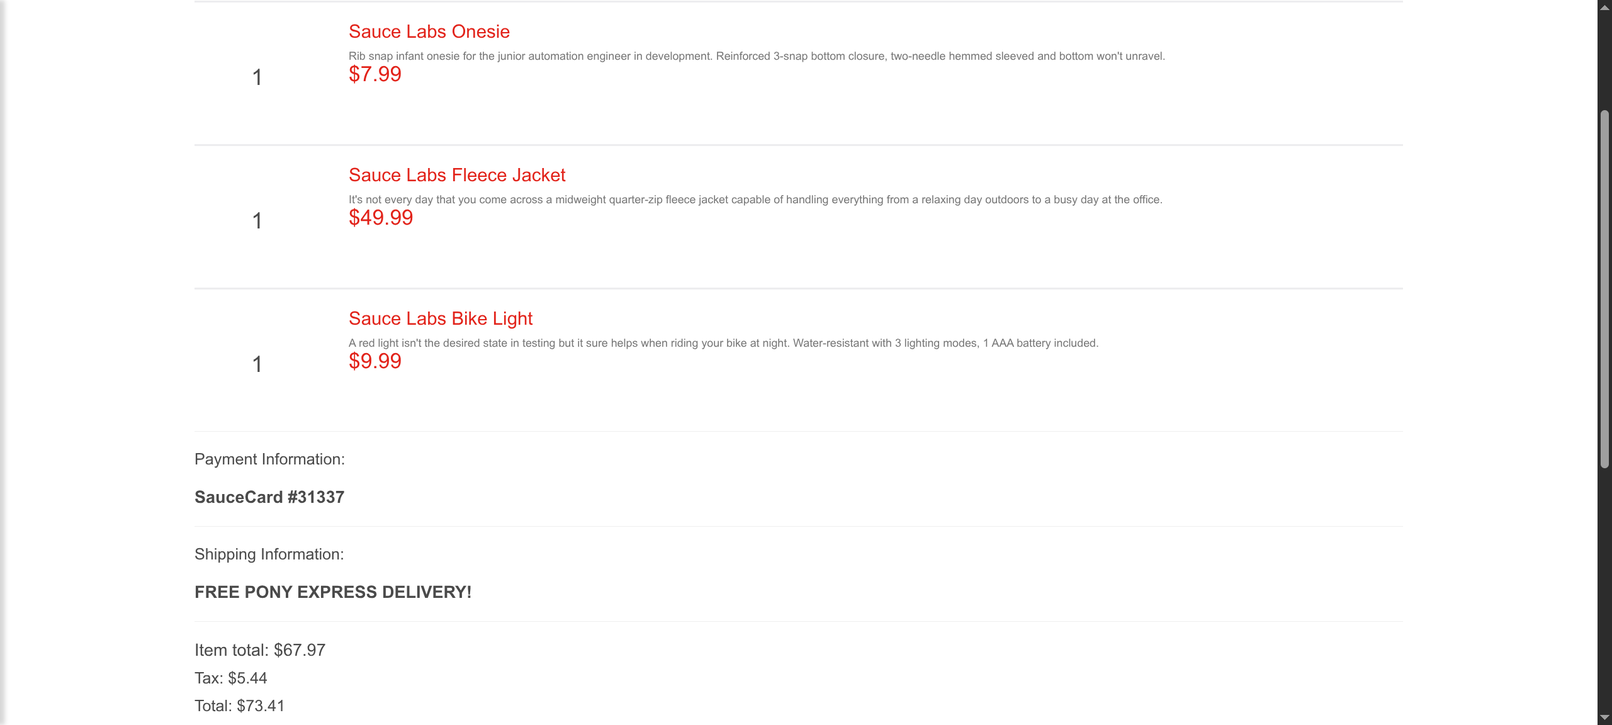
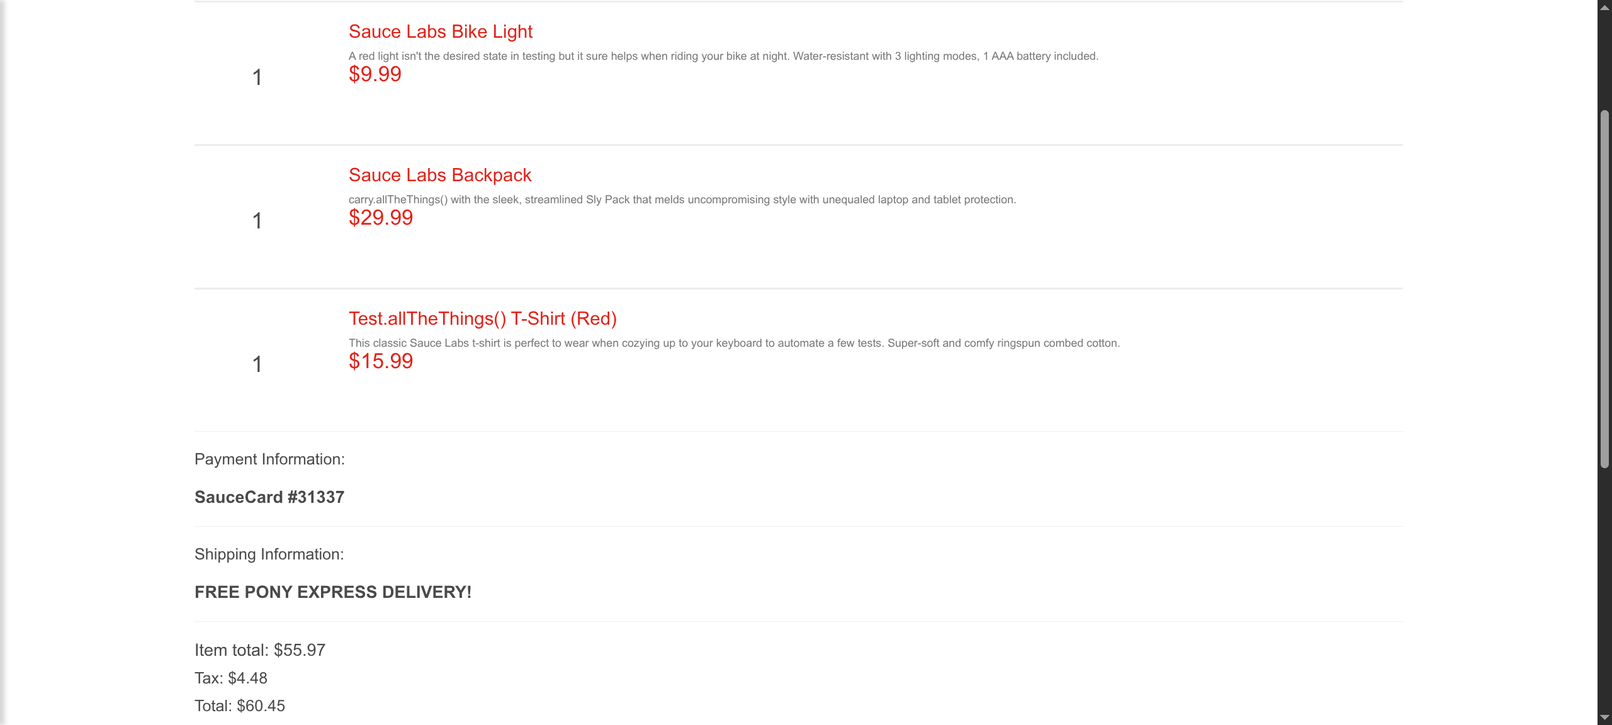
Adjustments to README

Changed region(s): [[0.2187, 0.4062, 0.6872, 0.5], [0.2187, 0.2188, 0.7185, 0.3125], [0.2187, 0.0312, 0.7185, 0.0938]]

diff --git a/log.html b/log.html
@@ -2074,25 +2074,25 @@ storage = function () {
 window.output = {};
 </script>
 <script type="text/javascript">
-window.output["suite"] = [1,2,3,0,[],[1,0,1681],[],[[4,0,5,[],[1,56,1624],[[0,6,0,0,0,0,0,0,[1,57,744],[[0,7,8,0,9,10,0,0,[1,57,606],[[57,2,11]]],[0,12,8,0,13,0,0,0,[1,663,12],[]],[0,14,8,0,15,16,0,0,[1,676,125],[[800,2,17]]]]],[0,18,19,0,0,0,0,0,[1,801,7],[[0,20,19,0,0,0,21,0,[1,801,6],[[0,22,8,0,23,24,25,0,[1,801,6],[[807,2,26]]],[0,27,28,0,29,25,30,0,[1,807,0],[[807,2,31],[807,2,32]]],[8,0,0,0,0,30,0,0,[1,807,0],[]],[808,2,33]]],[0,34,28,0,35,36,37,0,[1,808,0],[[808,2,38]]],[0,34,28,0,35,39,40,0,[1,808,0],[[808,2,41]]],[8,0,0,0,0,40,0,0,[1,808,0],[]]]],[0,42,0,0,0,0,0,0,[1,809,176],[[0,43,19,0,0,0,40,0,[1,809,5],[[0,20,19,0,0,0,21,0,[1,809,4],[[0,22,8,0,23,24,25,0,[1,809,3],[[812,2,26]]],[0,27,28,0,29,25,30,0,[1,812,0],[[812,2,31],[812,2,32]]],[8,0,0,0,0,30,0,0,[1,812,0],[]],[812,2,33]]],[0,34,28,0,35,36,37,0,[1,813,0],[[813,2,44]]],[0,34,28,0,35,39,40,0,[1,813,0],[[813,2,45]]],[8,0,0,0,0,40,0,0,[1,813,0],[]],[813,2,45]]],[0,46,28,0,47,48,0,0,[1,813,0],[[813,2,49]]],[0,22,8,0,23,50,51,0,[1,813,5],[[818,2,52]]],[3,53,0,0,0,0,0,0,[1,818,42],[[4,54,0,0,0,0,0,0,[1,818,19],[[0,55,8,0,56,57,0,0,[1,819,19],[[819,2,58]]]]],[4,59,0,0,0,0,0,0,[1,837,13],[[0,55,8,0,56,57,0,0,[1,837,13],[[838,2,60]]]]],[4,61,0,0,0,0,0,0,[1,850,10],[[0,55,8,0,56,57,0,0,[1,850,10],[[851,2,62]]]]]]],[0,63,8,0,64,65,0,0,[1,861,54],[[861,2,66]]],[0,67,8,0,68,69,0,0,[1,914,3],[]],[0,14,8,0,15,70,0,0,[1,917,67],[[984,2,71]]]]],[0,72,0,0,0,0,0,0,[1,984,537],[[0,63,8,0,64,73,0,0,[1,984,50],[[985,2,74]]],[0,67,8,0,68,75,0,0,[1,1035,2],[]],[0,76,8,0,77,78,0,0,[1,1037,27],[[1038,2,79]]],[0,76,8,0,77,80,0,0,[1,1064,18],[[1065,2,81]]],[0,76,8,0,77,82,0,0,[1,1083,18],[[1083,2,83]]],[0,84,8,0,85,86,0,0,[1,1100,58],[[1101,2,87]]],[0,67,8,0,68,88,0,0,[1,1158,2],[]],[0,89,8,0,90,91,0,0,[1,1161,7],[]],[0,92,8,0,93,91,0,0,[1,1168,257],[]],[0,14,8,0,15,94,0,0,[1,1425,97],[[1521,2,95]]]]],[0,96,0,0,0,0,0,0,[1,1522,29],[[0,97,19,0,0,91,98,0,[1,1522,8],[[0,99,8,0,100,101,102,0,[1,1522,6],[[1529,2,103]]],[0,104,105,0,106,107,108,0,[1,1529,0],[[1529,2,109]]],[0,110,28,0,111,112,113,0,[1,1529,0],[[1529,2,114]]],[0,115,28,0,116,113,113,0,[1,1529,0],[[1530,2,114]]],[8,0,0,0,0,113,0,0,[1,1530,0],[]],[1530,2,117]]],[0,118,19,0,0,0,119,0,[1,1530,20],[[0,22,8,0,23,120,121,0,[1,1530,3],[[1533,2,122]]],[0,22,8,0,23,123,124,0,[1,1533,3],[[1537,2,125]]],[0,126,127,0,128,129,130,0,[1,1537,0],[[1537,2,131]]],[0,132,28,0,133,0,119,0,[1,1537,0],[[1537,2,134]]],[3,135,0,0,0,0,0,0,[1,1537,13],[[4,136,0,0,0,0,0,0,[1,1537,3],[[0,99,8,0,100,137,102,0,[1,1537,2],[[1540,2,138]]],[0,104,105,0,106,107,108,0,[1,1540,0],[[1540,2,139]]],[0,110,28,0,111,112,113,0,[1,1540,0],[[1540,2,140]]],[0,115,28,0,116,113,113,0,[1,1540,0],[[1540,2,140]]],[0,141,127,0,142,143,0,0,[1,1540,0],[]]]],[4,144,0,0,0,0,0,0,[1,1540,3],[[0,99,8,0,100,137,102,0,[1,1540,2],[[1543,2,145]]],[0,104,105,0,106,107,108,0,[1,1543,0],[[1543,2,146]]],[0,110,28,0,111,112,113,0,[1,1543,0],[[1543,2,147]]],[0,115,28,0,116,113,113,0,[1,1543,0],[[1543,2,147]]],[0,141,127,0,142,143,0,0,[1,1543,0],[]]]],[4,148,0,0,0,0,0,0,[1,1544,4],[[0,99,8,0,100,137,102,0,[1,1544,2],[[1546,2,149]]],[0,104,105,0,106,107,108,0,[1,1546,0],[[1546,2,150]]],[0,110,28,0,111,112,113,0,[1,1546,0],[[1547,2,151]]],[0,115,28,0,116,113,113,0,[1,1547,0],[[1547,2,151]]],[0,141,127,0,142,143,0,0,[1,1547,0],[]]]],[4,152,0,0,0,0,0,0,[1,1547,3],[[0,99,8,0,100,137,102,0,[1,1547,2],[[1549,2,153]]],[0,104,105,0,106,107,108,0,[1,1549,0],[[1549,2,154]]],[0,110,28,0,111,112,113,0,[1,1549,0],[[1550,2,155]]],[0,115,28,0,116,113,113,0,[1,1550,0],[[1550,2,155]]],[0,141,127,0,142,143,0,0,[1,1550,0],[]]]]]],[8,0,0,0,0,119,0,0,[1,1550,0],[]],[1550,2,156]]],[0,34,28,0,35,157,158,0,[1,1550,0],[[1550,2,159]]],[0,160,28,0,161,162,0,0,[1,1551,0],[]]]],[0,163,0,0,0,0,0,0,[1,1551,129],[[0,63,8,0,64,164,0,0,[1,1551,67],[[1551,2,165]]],[0,89,8,0,90,166,0,0,[1,1618,6],[]],[0,99,8,0,100,167,168,0,[1,1624,5],[[1629,2,169]]],[0,170,28,0,171,172,0,0,[1,1629,0],[]],[0,14,8,0,15,173,0,0,[1,1629,51],[[1680,2,174]]]]]]]],[],[1,1,0,0]];
+window.output["suite"] = [1,2,3,0,[],[1,0,2576],[],[[4,0,5,[],[1,57,2518],[[0,6,0,0,0,0,0,0,[1,58,920],[[0,7,8,0,9,10,0,0,[1,58,765],[[58,2,11]]],[0,12,8,0,13,0,0,0,[1,824,12],[]],[0,14,8,0,15,16,0,0,[1,836,141],[[977,2,17]]]]],[0,18,0,0,0,0,0,0,[1,978,305],[[0,19,20,0,0,0,21,0,[1,978,8],[[0,22,20,0,0,0,23,0,[1,978,7],[[0,24,8,0,25,26,27,0,[1,979,6],[[984,2,28]]],[0,29,30,0,31,27,32,0,[1,984,0],[[985,2,33],[985,2,34]]],[8,0,0,0,0,32,0,0,[1,985,0],[]],[985,2,35]]],[0,36,30,0,37,38,39,0,[1,985,0],[[985,2,40]]],[0,36,30,0,37,41,21,0,[1,985,0],[[985,2,42]]],[8,0,0,0,0,21,0,0,[1,986,0],[]],[986,2,42]]],[0,24,8,0,25,43,44,0,[1,986,4],[[990,2,45]]],[3,46,0,0,0,0,0,0,[1,990,42],[[4,47,0,0,0,0,0,0,[1,990,18],[[0,48,8,0,49,50,0,0,[1,991,18],[[991,2,51]]]]],[4,52,0,0,0,0,0,0,[1,1009,12],[[0,48,8,0,49,50,0,0,[1,1009,12],[[1009,2,53]]]]],[4,54,0,0,0,0,0,0,[1,1021,11],[[0,48,8,0,49,50,0,0,[1,1021,11],[[1021,2,55]]]]]]],[0,56,8,0,57,58,0,0,[1,1032,192],[[1032,2,59]]],[0,60,8,0,61,62,0,0,[1,1224,2],[]],[0,14,8,0,15,63,0,0,[1,1226,56],[[1282,2,64]]]]],[0,65,0,0,0,0,0,0,[1,1283,858],[[0,56,8,0,57,66,0,0,[1,1283,194],[[1283,2,67]]],[0,60,8,0,61,68,0,0,[1,1477,2],[]],[0,69,8,0,70,71,0,0,[1,1479,25],[[1479,2,72]]],[0,69,8,0,70,73,0,0,[1,1504,20],[[1504,2,74]]],[0,69,8,0,70,75,0,0,[1,1525,19],[[1525,2,76]]],[0,77,8,0,78,79,0,0,[1,1544,246],[[1544,2,80]]],[0,60,8,0,61,81,0,0,[1,1790,2],[]],[0,82,8,0,83,84,0,0,[1,1792,6],[]],[0,85,8,0,86,84,0,0,[1,1798,255],[]],[0,14,8,0,15,87,0,0,[1,2054,87],[[2141,2,88]]]]],[0,89,0,0,0,0,0,0,[1,2141,32],[[0,90,20,0,0,84,91,0,[1,2141,7],[[0,92,8,0,93,94,95,0,[1,2141,6],[[2148,2,96]]],[0,97,98,0,99,100,101,0,[1,2148,0],[[2148,2,102]]],[0,103,30,0,104,105,106,0,[1,2148,0],[[2148,2,107]]],[0,108,30,0,109,106,106,0,[1,2148,0],[[2148,2,107]]],[8,0,0,0,0,106,0,0,[1,2149,0],[]],[2149,2,110]]],[0,111,20,0,0,0,112,0,[1,2149,24],[[0,24,8,0,25,113,114,0,[1,2149,3],[[2152,2,115]]],[0,24,8,0,25,116,117,0,[1,2152,4],[[2156,2,118]]],[0,119,120,0,121,122,123,0,[1,2156,0],[[2156,2,124]]],[0,125,30,0,126,0,112,0,[1,2157,0],[[2157,2,127]]],[3,128,0,0,0,0,0,0,[1,2157,16],[[4,129,0,0,0,0,0,0,[1,2157,4],[[0,92,8,0,93,130,95,0,[1,2157,3],[[2160,2,131]]],[0,97,98,0,99,100,101,0,[1,2160,0],[[2160,2,132]]],[0,103,30,0,104,105,106,0,[1,2160,0],[[2160,2,133]]],[0,108,30,0,109,106,106,0,[1,2160,0],[[2161,2,133]]],[0,134,120,0,135,136,0,0,[1,2161,0],[]]]],[4,137,0,0,0,0,0,0,[1,2161,4],[[0,92,8,0,93,130,95,0,[1,2161,3],[[2164,2,138]]],[0,97,98,0,99,100,101,0,[1,2164,0],[[2164,2,139]]],[0,103,30,0,104,105,106,0,[1,2164,0],[[2164,2,140]]],[0,108,30,0,109,106,106,0,[1,2164,0],[[2164,2,140]]],[0,134,120,0,135,136,0,0,[1,2164,0],[]]]],[4,141,0,0,0,0,0,0,[1,2165,4],[[0,92,8,0,93,130,95,0,[1,2165,3],[[2168,2,142]]],[0,97,98,0,99,100,101,0,[1,2168,0],[[2168,2,143]]],[0,103,30,0,104,105,106,0,[1,2168,0],[[2168,2,144]]],[0,108,30,0,109,106,106,0,[1,2168,0],[[2168,2,144]]],[0,134,120,0,135,136,0,0,[1,2168,0],[]]]],[4,145,0,0,0,0,0,0,[1,2168,4],[[0,92,8,0,93,130,95,0,[1,2168,3],[[2171,2,146]]],[0,97,98,0,99,100,101,0,[1,2171,0],[[2171,2,147]]],[0,103,30,0,104,105,106,0,[1,2172,0],[[2172,2,148]]],[0,108,30,0,109,106,106,0,[1,2172,0],[[2172,2,148]]],[0,134,120,0,135,136,0,0,[1,2172,0],[]]]]]],[8,0,0,0,0,112,0,0,[1,2173,0],[]],[2173,2,149]]],[0,36,30,0,37,150,151,0,[1,2173,0],[[2173,2,152]]],[0,153,30,0,154,155,0,0,[1,2173,0],[]]]],[0,156,0,0,0,0,0,0,[1,2173,402],[[0,56,8,0,57,157,0,0,[1,2174,342],[[2174,2,158]]],[0,82,8,0,83,159,0,0,[1,2516,6],[]],[0,92,8,0,93,160,161,0,[1,2522,5],[[2527,2,162]]],[0,163,30,0,164,165,0,0,[1,2527,0],[]],[0,14,8,0,15,166,0,0,[1,2527,48],[[2575,2,167]]]]]]]],[],[1,1,0,0]];
 </script>
 <script type="text/javascript">
 window.output["strings"] = [];
 </script>
 <script type="text/javascript">
-window.output["strings"] = window.output["strings"].concat(["*","*Carrinho-De-Compras","*/home/generic/data/code/courses/coti/test-automation_2025-08/robot-framework/aula06/tests/carrinho-de-compras.robot","*tests/carrinho-de-compras.robot","*Scenario: Adicionar produtos ao carrinho de compras e finalizar compra","*<p>Adiciona produtos e realiza compra com sucesso\x3c/p>","*Given Eu estou na página inicial da loja virtual","*Open Browser","*SeleniumLibrary","*<p>Opens a new browser instance to the optional <code>url\x3c/code>.\x3c/p>","*${URL_BASE}    ${BROWSER_NAME}","*Opening browser 'chrome' to base url '<a href=\"https://www.saucedemo.com/v1/inventory.html\">https://www.saucedemo.com/v1/inventory.html\x3c/a>'.","*Maximize Browser Window","*<p>Maximizes current browser window.\x3c/p>","*Capture Page Screenshot","*<p>Takes a screenshot of the current page and embeds it into a log file.\x3c/p>","*screenshots/01_pagina_inicial.png","*\x3c/td>\x3c/tr><tr><td colspan=\"3\"><a href=\"screenshots/01_pagina_inicial.png\"><img src=\"screenshots/01_pagina_inicial.png\" width=\"800px\">\x3c/a>","*And Obter Amostra Aleatória de Itens de Inventário","*carrinho-de-compras","*Contar Itens de Inventário","*${max}","*Get WebElements","*<p>Returns a list of WebElement objects matching the <code>locator\x3c/code>.\x3c/p>","*${INVENTORY_ITEMS}","*${items}","*${items} = [&lt;selenium.webdriver.remote.webelement.WebElement (session=\"5ebaf221fe4720140052007357f9cb66\", element=\"f.F687B04A8BAF9FED19C5E2D4706819EF.d.93319E422B4922FF70F1446C1C86F62D.e.26\")&gt;, &lt;selenium.webdriv...","*Get Length","*BuiltIn","*<p>Returns and logs the length of the given item as an integer.\x3c/p>","*${count}","*Length is 6.","*${count} = 6","*${max} = 6","*Evaluate","*<p>Evaluates the given expression in Python and returns the result.\x3c/p>","*random.choice(range(1,${max}))    random","*${sample_size}","*${sample_size} = 4","*random.sample(range(0,${max}), ${sample_size})    random","*@{sample}","*@{sample} = [ 4 | 1 | 3 | 0 ]","*And Eu adiciono uma amostra aleatória de produtos ao meu carrinho","*Obter Amostra Aleatória de Itens de Inventário","*${sample_size} = 3","*@{sample} = [ 4 | 3 | 1 ]","*Log","*<p>Logs the given message with the given level.\x3c/p>","*Sample is: ${sample}","*Sample is: [4, 3, 1]","*${ADD_TO_CART_BUTTONS}","*@{BUTTONS}","*@{BUTTONS} = [ &lt;selenium.webdriver.remote.webelement.WebElement (session=\"5ebaf221fe4720140052007357f9cb66\", element=\"f.F687B04A8BAF9FED19C5E2D4706819EF.d.93319E422B4922FF70F1446C1C86F62D.e.21\")&gt; | &lt;selenium.webdr...","*${item_number}    IN    @{sample}","*${item_number} = 4","*Click Element","*<p>Click the element identified by <code>locator\x3c/code>.\x3c/p>","*${BUTTONS}[${item_number}]","*Clicking element '&lt;selenium.webdriver.remote.webelement.WebElement (session=\"5ebaf221fe4720140052007357f9cb66\", element=\"f.F687B04A8BAF9FED19C5E2D4706819EF.d.93319E422B4922FF70F1446C1C86F62D.e.42\")&gt;'.","*${item_number} = 3","*Clicking element '&lt;selenium.webdriver.remote.webelement.WebElement (session=\"5ebaf221fe4720140052007357f9cb66\", element=\"f.F687B04A8BAF9FED19C5E2D4706819EF.d.93319E422B4922FF70F1446C1C86F62D.e.37\")&gt;'.","*${item_number} = 1","*Clicking element '&lt;selenium.webdriver.remote.webelement.WebElement (session=\"5ebaf221fe4720140052007357f9cb66\", element=\"f.F687B04A8BAF9FED19C5E2D4706819EF.d.93319E422B4922FF70F1446C1C86F62D.e.16\")&gt;'.","*Click Link","*<p>Clicks a link identified by <code>locator\x3c/code>.\x3c/p>","*${LINK_SHOPCART}","*Clicking link 'css=.shopping_cart_link'.","*Wait Until Location Contains","*<p>Waits until the current URL contains <code>expected\x3c/code>.\x3c/p>","*${URL_CART}","*screenshots/02_carrinho_de_compras.png","*\x3c/td>\x3c/tr><tr><td colspan=\"3\"><a href=\"screenshots/02_carrinho_de_compras.png\"><img src=\"screenshots/02_carrinho_de_compras.png\" width=\"800px\">\x3c/a>","*When Eu confirmo meus dados e solicito a realização da compra","*${LINK_CHECKOUT}","*Clicking link 'css=.checkout_button'.","*${URL_CHECKOUT}","*Input Text","*<p>Types the given <code>text\x3c/code> into the text field identified by <code>locator\x3c/code>.\x3c/p>","*${INPUT_FIRSTNAME}    ${FIRSTNAME}","*Typing text 'Pedro' into text field 'id=first-name'.","*${INPUT_LASTNAME}    ${LASTNAME}","*Typing text 'Ribeiro' into text field 'id=last-name'.","*${INPUT_ZIPCODE}    ${ZIPCODE}","*Typing text '8806355' into text field 'id=postal-code'.","*Click Button","*<p>Clicks the button identified by <code>locator\x3c/code>.\x3c/p>","*${BUTTON_CONTINUE}","*Clicking button 'css=.cart_button[value=\"CONTINUE\"]'.","*${URL_CHECKOUT_OVERVIEW}","*Wait Until Element Is Visible","*<p>Waits until the element <code>locator\x3c/code> is visible.\x3c/p>","*${TOTAL_LABEL}","*Scroll Element Into View","*<p>Scrolls the element identified by <code>locator\x3c/code> into view.\x3c/p>","*screenshots/03_resumo_de_compra.png","*\x3c/td>\x3c/tr><tr><td colspan=\"3\"><a href=\"screenshots/03_resumo_de_compra.png\"><img src=\"screenshots/03_resumo_de_compra.png\" width=\"800px\">\x3c/a>","*Then Eu verifico se o valor total corresponde aos subtotais de cada produto, mais taxas","*Obter Preço Via Elemento","*${captured_total}","*Get Text","*<p>Returns the text value of the element identified by <code>locator\x3c/code>.\x3c/p>","*${locator}","*${text}","*${text} = Total: $73.41","*Get Regexp Matches","*String","*<p>Returns a list of all non-overlapping matches in the given string.\x3c/p>","*${text}    [0-9]+\\.[0-9]+","*${matches}","*${matches} = ['73.41']","*Set Variable","*<p>Returns the given values which can then be assigned to a variables.\x3c/p>","*${matches}[0]","*${amount}","*${amount} = 73.41","*Convert To Number","*<p>Converts the given item to a floating point number.\x3c/p>","*${captured_total} = 73.41","*Obter Todos Os Preços","*${prices}","*${ITEM_PRICES}","*${elements_1}","*${elements_1} = [&lt;selenium.webdriver.remote.webelement.WebElement (session=\"5ebaf221fe4720140052007357f9cb66\", element=\"f.F687B04A8BAF9FED19C5E2D4706819EF.d.E0FB7A04172D134241B397313443E082.e.76\")&gt;, &lt;selenium.webdriv...","*${TAX_LABEL}","*${elements_2}","*${elements_2} = [&lt;selenium.webdriver.remote.webelement.WebElement (session=\"5ebaf221fe4720140052007357f9cb66\", element=\"f.F687B04A8BAF9FED19C5E2D4706819EF.d.E0FB7A04172D134241B397313443E082.e.79\")&gt;]","*Combine Lists","*Collections","*<p>Combines the given <code>lists\x3c/code> together and returns the result.\x3c/p>","*${elements_1}    ${elements_2}","*${elements}","*${elements} = [&lt;selenium.webdriver.remote.webelement.WebElement (session=\"5ebaf221fe4720140052007357f9cb66\", element=\"f.F687B04A8BAF9FED19C5E2D4706819EF.d.E0FB7A04172D134241B397313443E082.e.76\")&gt;, &lt;selenium.webdriv...","*Create List","*<p>Returns a list containing given items.\x3c/p>","*${prices} = []","*${el}    IN    @{elements}","*${el} = &lt;selenium.webdriver.remote.webelement.WebElement (session=&quot;5ebaf221fe4720140052007357f9cb66&quot;, element=&quot;f.F687B04A8BAF9FED19C5E2D4706819EF.d.E0FB7A04172D134241B397313443E082.e.76&quot;)&gt;","*${el}","*${text} = $7.99","*${matches} = ['7.99']","*${amount} = 7.99","*Append To List","*<p>Adds <code>values\x3c/code> to the end of <code>list\x3c/code>.\x3c/p>","*${prices}    ${amount}","*${el} = &lt;selenium.webdriver.remote.webelement.WebElement (session=&quot;5ebaf221fe4720140052007357f9cb66&quot;, element=&quot;f.F687B04A8BAF9FED19C5E2D4706819EF.d.E0FB7A04172D134241B397313443E082.e.77&quot;)&gt;","*${text} = $49.99","*${matches} = ['49.99']","*${amount} = 49.99","*${el} = &lt;selenium.webdriver.remote.webelement.WebElement (session=&quot;5ebaf221fe4720140052007357f9cb66&quot;, element=&quot;f.F687B04A8BAF9FED19C5E2D4706819EF.d.E0FB7A04172D134241B397313443E082.e.78&quot;)&gt;","*${text} = $9.99","*${matches} = ['9.99']","*${amount} = 9.99","*${el} = &lt;selenium.webdriver.remote.webelement.WebElement (session=&quot;5ebaf221fe4720140052007357f9cb66&quot;, element=&quot;f.F687B04A8BAF9FED19C5E2D4706819EF.d.E0FB7A04172D134241B397313443E082.e.79&quot;)&gt;","*${text} = Tax: $5.44","*${matches} = ['5.44']","*${amount} = 5.44","*${prices} = [7.99, 49.99, 9.99, 5.44]","*sum(${prices})","*${calculated_total}","*${calculated_total} = 73.41","*Should Be Equal As Numbers","*<p>Fails if objects are unequal after converting them to real numbers.\x3c/p>","*${calculated_total}    ${captured_total}","*Then Após a confirmação final, eu vejo uma mensagem de sucesso informando que a compra foi realizada","*${LINK_FINISH}","*Clicking link 'css=a.cart_button'.","*${SUCCESS_DIV}","*${SUCCESS_MESSAGE}","*${success_text}","*${success_text} = THANK YOU FOR YOUR ORDER","*Should Be Equal As Strings","*<p>Fails if objects are unequal after converting them to strings.\x3c/p>","*${success_text}    THANK YOU FOR YOUR ORDER","*screenshots/04_compra_realizada_com_sucesso.png","*\x3c/td>\x3c/tr><tr><td colspan=\"3\"><a href=\"screenshots/04_compra_realizada_com_sucesso.png\"><img src=\"screenshots/04_compra_realizada_com_sucesso.png\" width=\"800px\">\x3c/a>"]);
+window.output["strings"] = window.output["strings"].concat(["*","*Carrinho-De-Compras","*/home/generic/data/code/courses/coti/test-automation_2025-08/robot-framework/aula06/tests/carrinho-de-compras.robot","*tests/carrinho-de-compras.robot","*Scenario: Adicionar produtos ao carrinho de compras e finalizar compra","*<p>Adiciona produtos e realiza compra com sucesso\x3c/p>","*Given Eu estou na página inicial da loja virtual","*Open Browser","*SeleniumLibrary","*<p>Opens a new browser instance to the optional <code>url\x3c/code>.\x3c/p>","*${URL_BASE}    ${BROWSER_NAME}","*Opening browser 'chrome' to base url '<a href=\"https://www.saucedemo.com/v1/inventory.html\">https://www.saucedemo.com/v1/inventory.html\x3c/a>'.","*Maximize Browser Window","*<p>Maximizes current browser window.\x3c/p>","*Capture Page Screenshot","*<p>Takes a screenshot of the current page and embeds it into a log file.\x3c/p>","*screenshots/01_pagina_inicial.png","*\x3c/td>\x3c/tr><tr><td colspan=\"3\"><a href=\"screenshots/01_pagina_inicial.png\"><img src=\"screenshots/01_pagina_inicial.png\" width=\"800px\">\x3c/a>","*And Eu adiciono uma amostra aleatória de produtos ao meu carrinho","*Obter Amostra Aleatória de Itens de Inventário","*carrinho-de-compras","*@{sample}","*Contar Itens de Inventário","*${max}","*Get WebElements","*<p>Returns a list of WebElement objects matching the <code>locator\x3c/code>.\x3c/p>","*${INVENTORY_ITEMS}","*${items}","*${items} = [&lt;selenium.webdriver.remote.webelement.WebElement (session=\"a4e00d99ea953b0cea388c7fac3c268c\", element=\"f.BA297BB305F644908ED99F24167A424D.d.47797383C19A929861707CAE13FCDB6B.e.34\")&gt;, &lt;selenium.webdriv...","*Get Length","*BuiltIn","*<p>Returns and logs the length of the given item as an integer.\x3c/p>","*${count}","*Length is 6.","*${count} = 6","*${max} = 6","*Evaluate","*<p>Evaluates the given expression in Python and returns the result.\x3c/p>","*random.choice(range(1,${max}))    random","*${sample_size}","*${sample_size} = 3","*random.sample(range(0,${max}), ${sample_size})    random","*@{sample} = [ 1 | 0 | 5 ]","*${ADD_TO_CART_BUTTONS}","*@{BUTTONS}","*@{BUTTONS} = [ &lt;selenium.webdriver.remote.webelement.WebElement (session=\"a4e00d99ea953b0cea388c7fac3c268c\", element=\"f.BA297BB305F644908ED99F24167A424D.d.47797383C19A929861707CAE13FCDB6B.e.17\")&gt; | &lt;selenium.webdr...","*${item_number}    IN    @{sample}","*${item_number} = 1","*Click Element","*<p>Click the element identified by <code>locator\x3c/code>.\x3c/p>","*${BUTTONS}[${item_number}]","*Clicking element '&lt;selenium.webdriver.remote.webelement.WebElement (session=\"a4e00d99ea953b0cea388c7fac3c268c\", element=\"f.BA297BB305F644908ED99F24167A424D.d.47797383C19A929861707CAE13FCDB6B.e.20\")&gt;'.","*${item_number} = 0","*Clicking element '&lt;selenium.webdriver.remote.webelement.WebElement (session=\"a4e00d99ea953b0cea388c7fac3c268c\", element=\"f.BA297BB305F644908ED99F24167A424D.d.47797383C19A929861707CAE13FCDB6B.e.17\")&gt;'.","*${item_number} = 5","*Clicking element '&lt;selenium.webdriver.remote.webelement.WebElement (session=\"a4e00d99ea953b0cea388c7fac3c268c\", element=\"f.BA297BB305F644908ED99F24167A424D.d.47797383C19A929861707CAE13FCDB6B.e.49\")&gt;'.","*Click Link","*<p>Clicks a link identified by <code>locator\x3c/code>.\x3c/p>","*${LINK_SHOPCART}","*Clicking link 'css=.shopping_cart_link'.","*Wait Until Location Contains","*<p>Waits until the current URL contains <code>expected\x3c/code>.\x3c/p>","*${URL_CART}","*screenshots/02_carrinho_de_compras.png","*\x3c/td>\x3c/tr><tr><td colspan=\"3\"><a href=\"screenshots/02_carrinho_de_compras.png\"><img src=\"screenshots/02_carrinho_de_compras.png\" width=\"800px\">\x3c/a>","*When Eu confirmo meus dados e solicito a realização da compra","*${LINK_CHECKOUT}","*Clicking link 'css=.checkout_button'.","*${URL_CHECKOUT}","*Input Text","*<p>Types the given <code>text\x3c/code> into the text field identified by <code>locator\x3c/code>.\x3c/p>","*${INPUT_FIRSTNAME}    ${FIRSTNAME}","*Typing text 'Pedro' into text field 'id=first-name'.","*${INPUT_LASTNAME}    ${LASTNAME}","*Typing text 'Ribeiro' into text field 'id=last-name'.","*${INPUT_ZIPCODE}    ${ZIPCODE}","*Typing text '8806355' into text field 'id=postal-code'.","*Click Button","*<p>Clicks the button identified by <code>locator\x3c/code>.\x3c/p>","*${BUTTON_CONTINUE}","*Clicking button 'css=.cart_button[value=\"CONTINUE\"]'.","*${URL_CHECKOUT_OVERVIEW}","*Wait Until Element Is Visible","*<p>Waits until the element <code>locator\x3c/code> is visible.\x3c/p>","*${TOTAL_LABEL}","*Scroll Element Into View","*<p>Scrolls the element identified by <code>locator\x3c/code> into view.\x3c/p>","*screenshots/03_resumo_de_compra.png","*\x3c/td>\x3c/tr><tr><td colspan=\"3\"><a href=\"screenshots/03_resumo_de_compra.png\"><img src=\"screenshots/03_resumo_de_compra.png\" width=\"800px\">\x3c/a>","*Then Eu verifico se o valor total corresponde aos subtotais de cada produto, mais taxas","*Obter Preço Via Elemento","*${captured_total}","*Get Text","*<p>Returns the text value of the element identified by <code>locator\x3c/code>.\x3c/p>","*${locator}","*${text}","*${text} = Total: $60.45","*Get Regexp Matches","*String","*<p>Returns a list of all non-overlapping matches in the given string.\x3c/p>","*${text}    [0-9]+\\.[0-9]+","*${matches}","*${matches} = ['60.45']","*Set Variable","*<p>Returns the given values which can then be assigned to a variables.\x3c/p>","*${matches}[0]","*${amount}","*${amount} = 60.45","*Convert To Number","*<p>Converts the given item to a floating point number.\x3c/p>","*${captured_total} = 60.45","*Obter Todos Os Preços","*${prices}","*${ITEM_PRICES}","*${elements_1}","*${elements_1} = [&lt;selenium.webdriver.remote.webelement.WebElement (session=\"a4e00d99ea953b0cea388c7fac3c268c\", element=\"f.BA297BB305F644908ED99F24167A424D.d.74754B0486DF6C1EDCB8E99DD6FFD277.e.78\")&gt;, &lt;selenium.webdriv...","*${TAX_LABEL}","*${elements_2}","*${elements_2} = [&lt;selenium.webdriver.remote.webelement.WebElement (session=\"a4e00d99ea953b0cea388c7fac3c268c\", element=\"f.BA297BB305F644908ED99F24167A424D.d.74754B0486DF6C1EDCB8E99DD6FFD277.e.81\")&gt;]","*Combine Lists","*Collections","*<p>Combines the given <code>lists\x3c/code> together and returns the result.\x3c/p>","*${elements_1}    ${elements_2}","*${elements}","*${elements} = [&lt;selenium.webdriver.remote.webelement.WebElement (session=\"a4e00d99ea953b0cea388c7fac3c268c\", element=\"f.BA297BB305F644908ED99F24167A424D.d.74754B0486DF6C1EDCB8E99DD6FFD277.e.78\")&gt;, &lt;selenium.webdriv...","*Create List","*<p>Returns a list containing given items.\x3c/p>","*${prices} = []","*${el}    IN    @{elements}","*${el} = &lt;selenium.webdriver.remote.webelement.WebElement (session=&quot;a4e00d99ea953b0cea388c7fac3c268c&quot;, element=&quot;f.BA297BB305F644908ED99F24167A424D.d.74754B0486DF6C1EDCB8E99DD6FFD277.e.78&quot;)&gt;","*${el}","*${text} = $9.99","*${matches} = ['9.99']","*${amount} = 9.99","*Append To List","*<p>Adds <code>values\x3c/code> to the end of <code>list\x3c/code>.\x3c/p>","*${prices}    ${amount}","*${el} = &lt;selenium.webdriver.remote.webelement.WebElement (session=&quot;a4e00d99ea953b0cea388c7fac3c268c&quot;, element=&quot;f.BA297BB305F644908ED99F24167A424D.d.74754B0486DF6C1EDCB8E99DD6FFD277.e.79&quot;)&gt;","*${text} = $29.99","*${matches} = ['29.99']","*${amount} = 29.99","*${el} = &lt;selenium.webdriver.remote.webelement.WebElement (session=&quot;a4e00d99ea953b0cea388c7fac3c268c&quot;, element=&quot;f.BA297BB305F644908ED99F24167A424D.d.74754B0486DF6C1EDCB8E99DD6FFD277.e.80&quot;)&gt;","*${text} = $15.99","*${matches} = ['15.99']","*${amount} = 15.99","*${el} = &lt;selenium.webdriver.remote.webelement.WebElement (session=&quot;a4e00d99ea953b0cea388c7fac3c268c&quot;, element=&quot;f.BA297BB305F644908ED99F24167A424D.d.74754B0486DF6C1EDCB8E99DD6FFD277.e.81&quot;)&gt;","*${text} = Tax: $4.48","*${matches} = ['4.48']","*${amount} = 4.48","*${prices} = [9.99, 29.99, 15.99, 4.48]","*sum(${prices})","*${calculated_total}","*${calculated_total} = 60.45","*Should Be Equal As Numbers","*<p>Fails if objects are unequal after converting them to real numbers.\x3c/p>","*${calculated_total}    ${captured_total}","*Then Após a confirmação final, eu vejo uma mensagem de sucesso informando que a compra foi realizada","*${LINK_FINISH}","*Clicking link 'css=a.cart_button'.","*${SUCCESS_DIV}","*${SUCCESS_MESSAGE}","*${success_text}","*${success_text} = THANK YOU FOR YOUR ORDER","*Should Be Equal As Strings","*<p>Fails if objects are unequal after converting them to strings.\x3c/p>","*${success_text}    THANK YOU FOR YOUR ORDER","*screenshots/04_compra_realizada_com_sucesso.png","*\x3c/td>\x3c/tr><tr><td colspan=\"3\"><a href=\"screenshots/04_compra_realizada_com_sucesso.png\"><img src=\"screenshots/04_compra_realizada_com_sucesso.png\" width=\"800px\">\x3c/a>"]);
 </script>
 <script type="text/javascript">
-window.output["stats"] = [[{"elapsed":"00:00:02","fail":0,"label":"All Tests","pass":1,"skip":0}],[],[{"elapsed":"00:00:02","fail":0,"id":"s1","label":"Carrinho-De-Compras","name":"Carrinho-De-Compras","pass":1,"skip":0}]];
+window.output["stats"] = [[{"elapsed":"00:00:03","fail":0,"label":"All Tests","pass":1,"skip":0}],[],[{"elapsed":"00:00:03","fail":0,"id":"s1","label":"Carrinho-De-Compras","name":"Carrinho-De-Compras","pass":1,"skip":0}]];
 </script>
 <script type="text/javascript">
 window.output["errors"] = [];
 </script>
 <script type="text/javascript">
-window.output["baseMillis"] = 1756840582320;
+window.output["baseMillis"] = 1756841805413;
 </script>
 <script type="text/javascript">
-window.output["generated"] = 1683;
+window.output["generated"] = 2578;
 </script>
 <script type="text/javascript">
 window.output["expand_keywords"] = null;

diff --git a/report.html b/report.html
@@ -1887,7 +1887,7 @@ storage = function () {
 window.output = {};
 </script>
 <script type="text/javascript">
-window.output["suite"] = [1,2,3,0,[],[1,0,1681],[],[[4,0,5,[],[1,56,1624],[]]],[],[1,1,0,0]];
+window.output["suite"] = [1,2,3,0,[],[1,0,2576],[],[[4,0,5,[],[1,57,2518],[]]],[],[1,1,0,0]];
 </script>
 <script type="text/javascript">
 window.output["strings"] = [];
@@ -1896,13 +1896,13 @@ window.output["strings"] = [];
 window.output["strings"] = window.output["strings"].concat(["*","*Carrinho-De-Compras","*/home/generic/data/code/courses/coti/test-automation_2025-08/robot-framework/aula06/tests/carrinho-de-compras.robot","*tests/carrinho-de-compras.robot","*Scenario: Adicionar produtos ao carrinho de compras e finalizar compra","*<p>Adiciona produtos e realiza compra com sucesso\x3c/p>"]);
 </script>
 <script type="text/javascript">
-window.output["stats"] = [[{"elapsed":"00:00:02","fail":0,"label":"All Tests","pass":1,"skip":0}],[],[{"elapsed":"00:00:02","fail":0,"id":"s1","label":"Carrinho-De-Compras","name":"Carrinho-De-Compras","pass":1,"skip":0}]];
+window.output["stats"] = [[{"elapsed":"00:00:03","fail":0,"label":"All Tests","pass":1,"skip":0}],[],[{"elapsed":"00:00:03","fail":0,"id":"s1","label":"Carrinho-De-Compras","name":"Carrinho-De-Compras","pass":1,"skip":0}]];
 </script>
 <script type="text/javascript">
-window.output["baseMillis"] = 1756840582320;
+window.output["baseMillis"] = 1756841805413;
 </script>
 <script type="text/javascript">
-window.output["generated"] = 1683;
+window.output["generated"] = 2578;
 </script>
 <script type="text/javascript">
 window.output["expand_keywords"] = null;

diff --git a/README.md b/README.md
@@ -1,13 +1,13 @@
 ## Adding a random sample of store items to cart and verifying price consistency
 
-This is a demo test automation script using Robot Framework. It showcases a few interesting techniques:
+This is a demo test automation script using Robot Framework. It showcases a few useful techniques:
 
 - Randomly samples a subset of store items
 - Adds random sample to cart
 - Programatically ensures total price matches sum of individual item prices, plus tax
 
-Developed in collaboration with Coti Informática.
+Developed in collaboration with [Coti Informática](http://cotiinformatica.com.br).
 
 ## To do
 
-Fully translate to English.
+- Fully translate to English.
